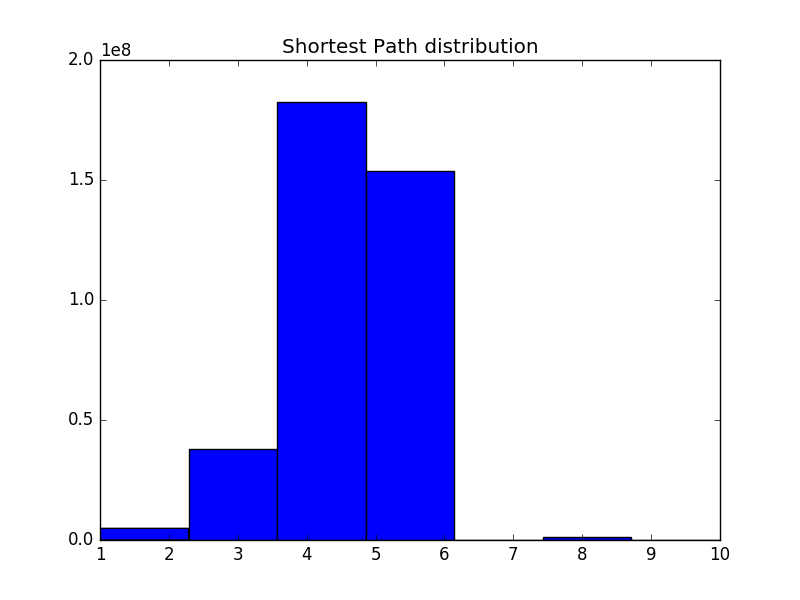
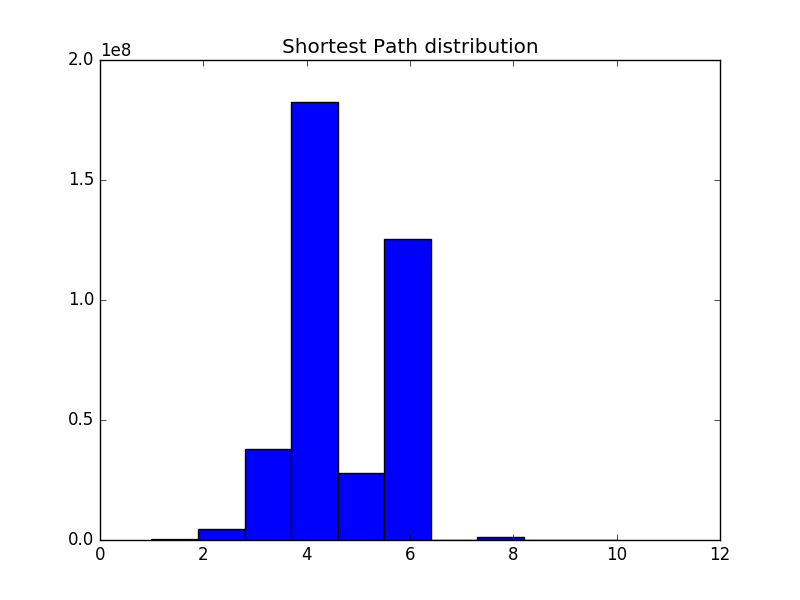
Fix bug

diff --git a/src/descriptors.py b/src/descriptors.py
@@ -11,10 +11,6 @@ import os
 import networkx as nx
 import pdb
 
-
-NETWORK_TITLES = {
-    'at': "Artists-Tags"
-}
 PLOT_TITLES = {
     'sp': "Shortest Path distribution",
     'cd': "Components distribution",
@@ -62,26 +58,6 @@ def shortest_paths(network):
     return counts, bins
 
 
-# def calc_degrees(network):
-#     result = {}
-#     result['ta'] = []
-#     for tag_id in net.tags_iter():
-#         result['ta'].append(net.degree_tag_artist(tag_id))
-
-#     result['at'] = []
-#     result['au'] = []
-#     for artist_id in net.artists_iter():
-#         result['at'].append(net.degree_artist_tag(artist_id))
-#         result['au'].append(net.degree_artist_user(artist_id))
-
-#     result['uu'] = []
-#     result['ua'] = []
-#     for user_id in net.users_iter():
-#         result['ua'].append(net.degree_user_artist(user_id))
-#         result['uu'].append(net.degree_user_user(user_id))
-#     return result
-
-
 def get_descriptors(network, short_name, already_calculated=False):
     filename = "{}.pickle".format(short_name)
     if os.path.isfile(filename):
@@ -118,7 +94,7 @@ def get_descriptors(network, short_name, already_calculated=False):
 
     result['clustering'] = clu.global_clustering(network)
 
-    if already_calculated:
+    if not already_calculated:
         net2 = gt.Graph(network)  # undirected version
         net2.set_directed(False)
         result['sp'] = {}
@@ -126,6 +102,7 @@ def get_descriptors(network, short_name, already_calculated=False):
         # connected components
 
         _, c2 = top.label_components(net2)
+        pdb.set_trace()
         result['components'] = {}
         result['components']['num'] = len(c2)
         result['components']['bins'] = range(len(c2))
@@ -135,8 +112,31 @@ def get_descriptors(network, short_name, already_calculated=False):
     return result
 
 
-def get_title(network_type, plot_type):
-    return "{} ({})".format(PLOT_TITLES[plot_type], NETWORK_TITLES[network_type])
+def pprint(results):
+    components = results['components']['num'] if 'components' in results.keys() else "-"
+    return (
+        "Name: {}\n"
+        "Num nodes: {}\n"
+        "Num edges: {}\n"
+        "Max degree: {}\n"
+        "Min degree: {}\n"
+        "Avg degree: {}\n"
+        "Diameter: {}\n"
+        "Path: {}\n"
+        "Clustering: {}\n"
+        "Num Components: {}\n"
+    ).format(
+        results['name'],
+        results['num_nodes'],
+        results['num_edges'],
+        results['degree']['max'],
+        results['degree']['min'],
+        results['degree']['avg'],
+        results['diameter'],
+        results['diameter_path'],  # split i path?
+        results['clustering'],
+        components
+    )
 
 
 net = LastfmNetwork.instance()
@@ -154,6 +154,7 @@ au_desc = get_descriptors(gt_au_net, 'au', already_calculated=True)
 uu_desc = get_descriptors(gt_uu_net, 'uu')
 
 for desc in [at_desc, ta_desc, au_desc, ua_desc, uu_desc]:
+    print pprint(desc)
     draw_hist(desc['degree']['bins'], desc["degree"]['counts'],
               title=PLOT_TITLES[desc['name']],
               file_name=desc["filename_dd"])
@@ -171,4 +172,4 @@ for desc in [at_desc, ta_desc, au_desc, ua_desc, uu_desc]:
         draw_hist(desc['sp']['bins'], desc['sp']['counts'],
                   title=PLOT_TITLES['sp'],
                   file_name=desc['filename_sp'],
-                  bins=7)
+                  bins=10)
